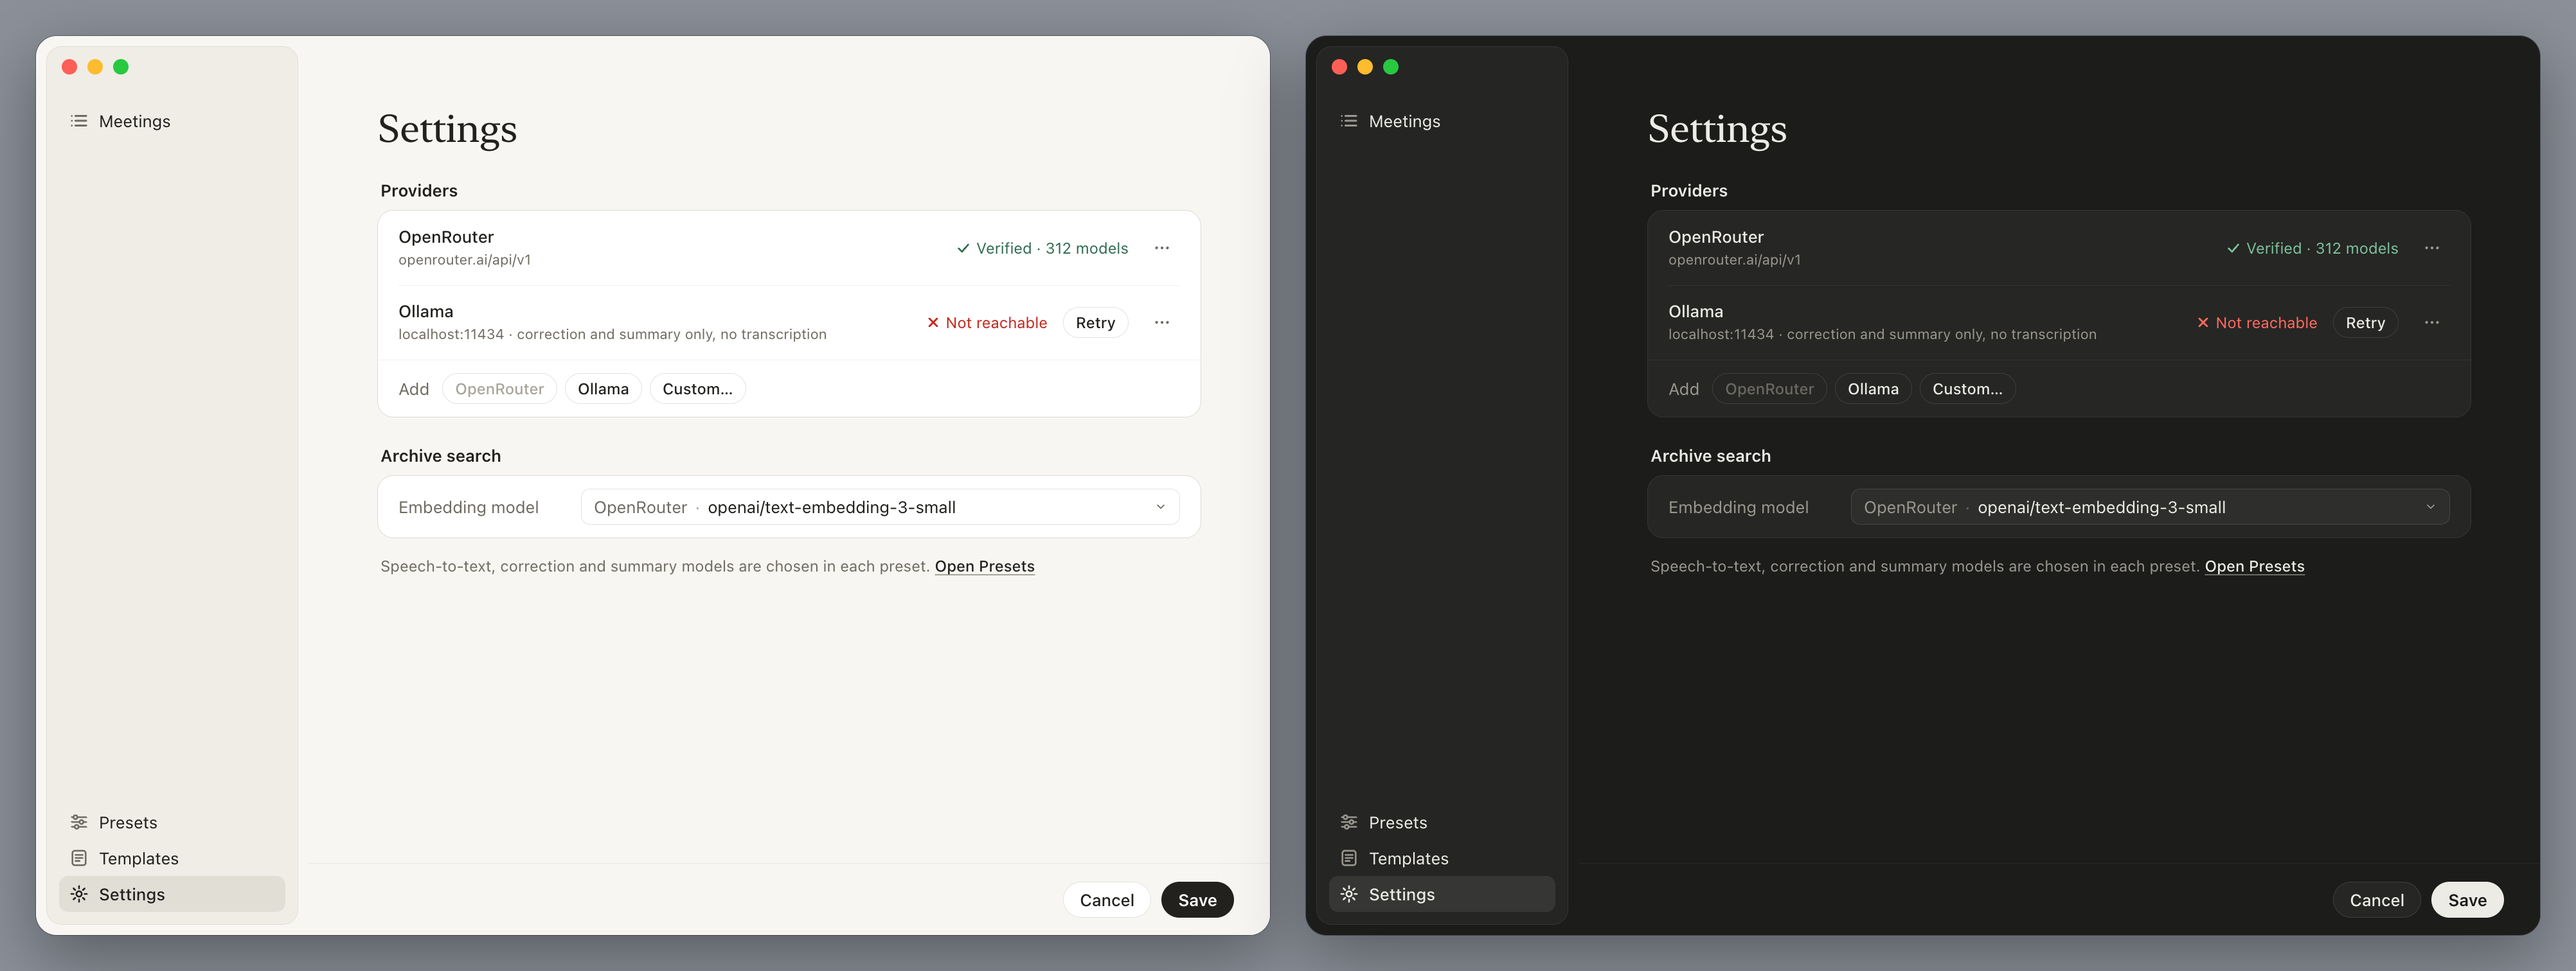
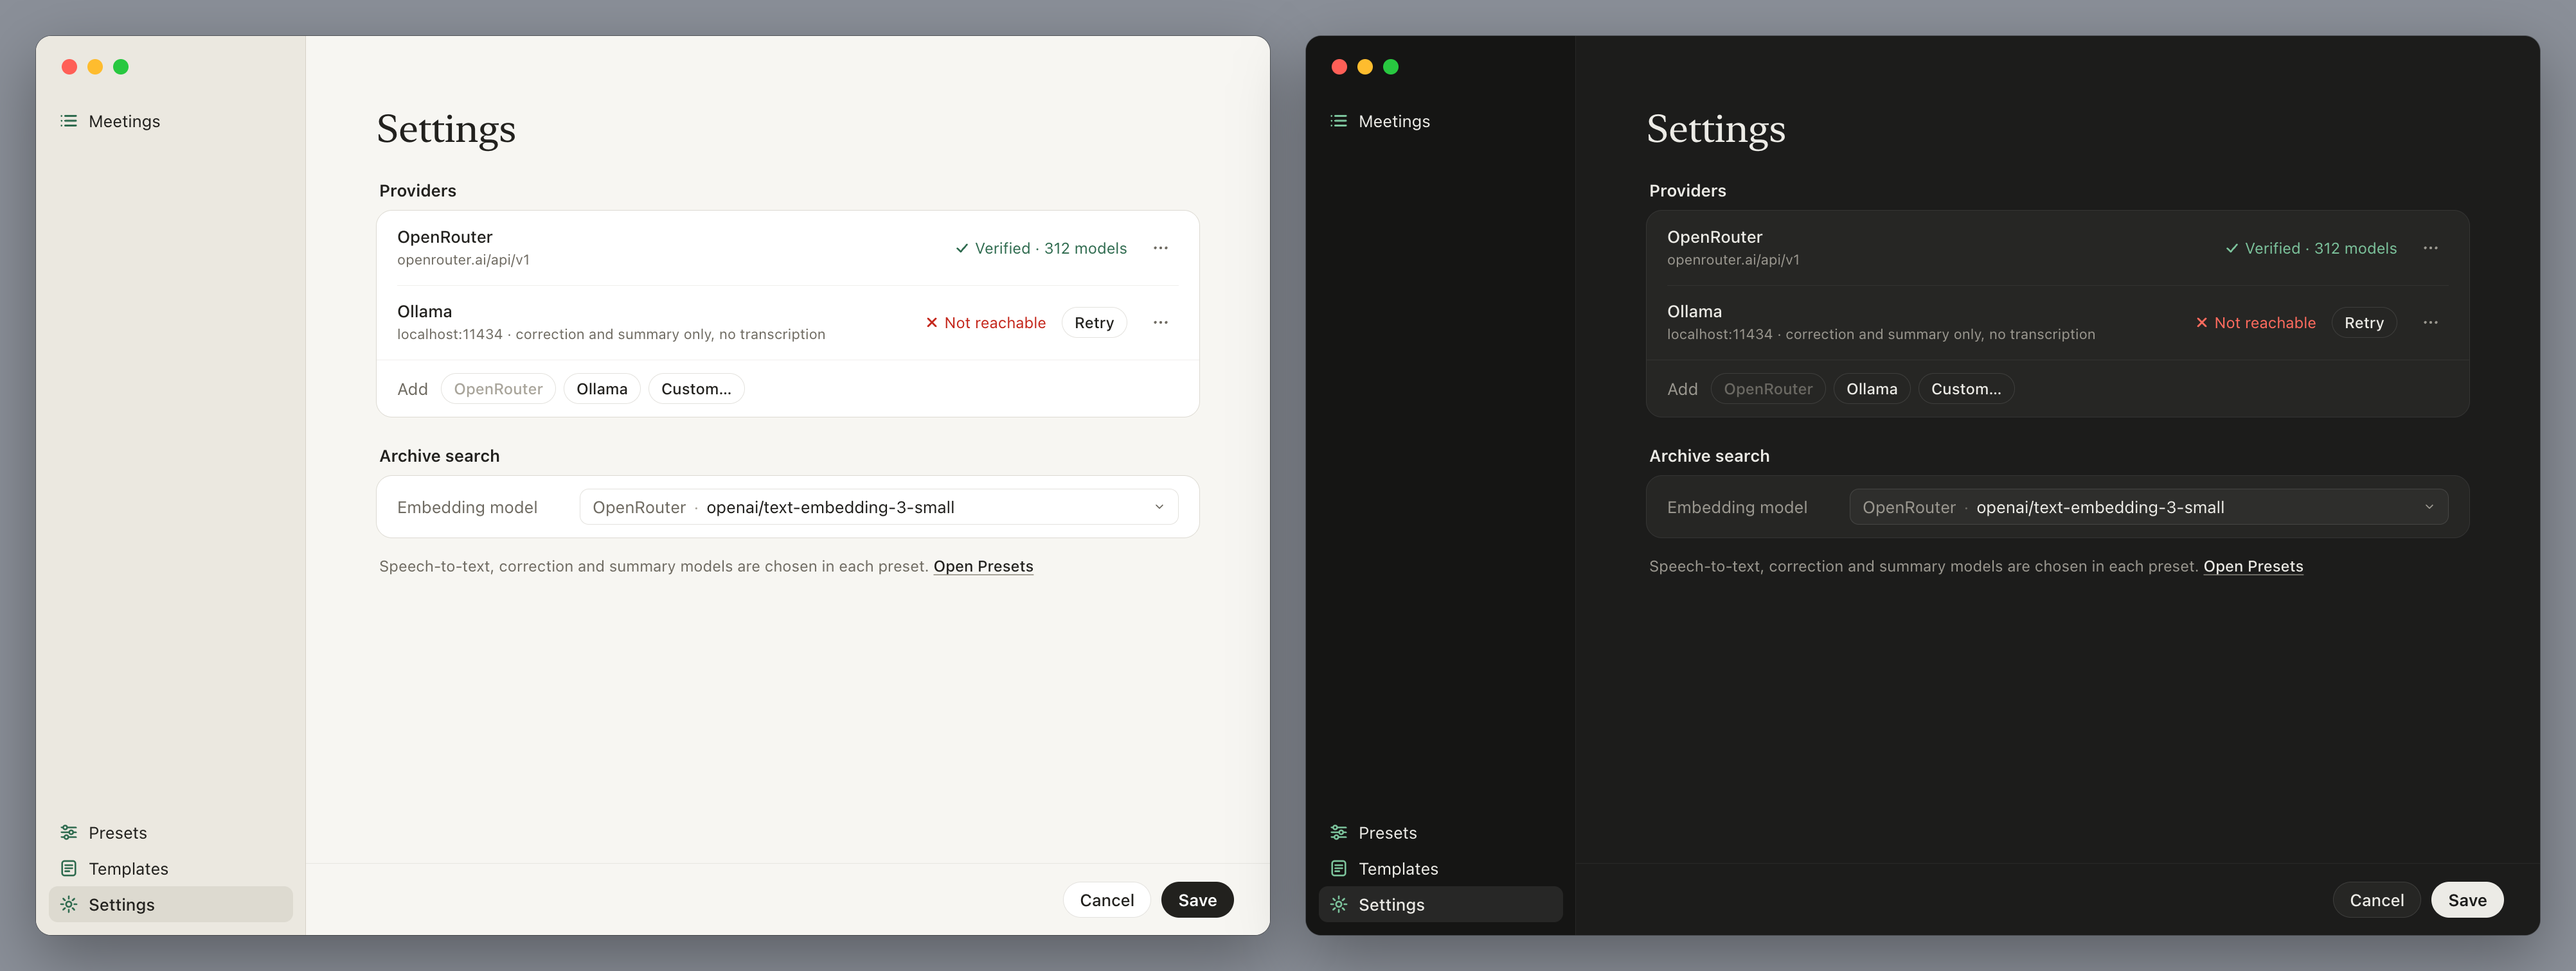
Design §11: makiety B na sidebarze macOS 27 (przy krawędzi), §11.8 research trendów UX macOS/Windows 2026–2027

diff --git a/docs/design/makiety/ekrany-b.html b/docs/design/makiety/ekrany-b.html
@@ -12,30 +12,30 @@
 body { font: 13px/16px system-ui; background: #8a8f98; padding: 28px; display: flex; gap: 28px; -webkit-font-smoothing: antialiased; }
 
 /* ---------- tokeny §11 ---------- */
-.light { --bg:#f7f6f2; --side:rgba(238,236,229,.92); --sideEdge:rgba(60,50,20,.08); --sel:rgba(60,50,20,.08);
+.light { --bg:#f7f6f2; --side:#ebe8e0; --sideEdge:rgba(60,50,20,.12); --sel:rgba(60,50,20,.08);
   --card:#ffffff; --sunk:#f1efe9; --line:rgba(60,50,20,.14); --line2:rgba(60,50,20,.08);
   --text:#22211e; --text2:#6f6b62; --text3:#a8a49a; --primary:#22211e; --onPrimary:#ffffff;
   --accent:#2f6b4f; --rec:#c4271c; --warn:#8a5a00; --glass:rgba(250,249,246,.74); --glassEdge:rgba(60,50,20,.16); }
-.dark { --bg:#1c1c1b; --side:rgba(38,38,36,.92); --sideEdge:rgba(255,255,255,.07); --sel:rgba(255,255,255,.08);
+.dark { --bg:#1c1c1b; --side:#151514; --sideEdge:rgba(255,255,255,.08); --sel:rgba(255,255,255,.08);
   --card:#262624; --sunk:#2e2e2c; --line:rgba(255,255,255,.11); --line2:rgba(255,255,255,.06);
   --text:#ecebe6; --text2:#9a978f; --text3:#6b6963; --primary:#ecebe6; --onPrimary:#1c1c1b;
   --accent:#7cc39c; --rec:#ff6b5e; --warn:#e0b050; --glass:rgba(36,36,34,.72); --glassEdge:rgba(255,255,255,.12); }
 
 /* ---------- okno i sidebar (systemowe) ---------- */
-.win { width: 960px; height: 700px; border-radius: 16px; overflow: hidden; position: relative; flex: none;
+.win { width: 960px; height: 700px; border-radius: 12px; overflow: hidden; position: relative; flex: none;
        background: var(--bg); color: var(--text); box-shadow: 0 0 0 .5px rgba(0,0,0,.35), 0 18px 50px rgba(0,0,0,.35); }
 .lights { position: absolute; top: 18px; left: 20px; display: flex; gap: 8px; z-index: 3; }
 .lights i { width: 12px; height: 12px; border-radius: 50%; display: block; }
 .lights i:nth-child(1){background:#ff5f57} .lights i:nth-child(2){background:#febc2e} .lights i:nth-child(3){background:#28c840}
-.side { position: absolute; top: 8px; left: 8px; bottom: 8px; width: 196px; border-radius: 12px; background: var(--side);
-        box-shadow: inset 0 0 0 .5px var(--sideEdge); padding: 44px 10px 10px; display: flex; flex-direction: column; }
+/* macOS 27: sidebar przy krawędzi okna, ciemniejsze tło, kolorowe ikony */
+.side { position: absolute; top: 0; left: 0; bottom: 0; width: 210px; background: var(--side);
+        box-shadow: inset -.5px 0 0 var(--sideEdge); padding: 52px 10px 10px; display: flex; flex-direction: column; }
 .nav { display: flex; align-items: center; gap: 8px; height: 28px; padding: 0 8px; border-radius: 7px; }
 .nav.sel { background: var(--sel); font-weight: 500; }
 .side .spacer { flex: 1; }
 svg { fill: none; stroke: currentColor; stroke-width: 1.4; stroke-linecap: round; stroke-linejoin: round; flex: none; }
-.nav svg { width: 15px; height: 15px; color: var(--text2); }
-.nav.sel svg { color: var(--text); }
-.main { position: absolute; top: 0; left: 212px; right: 0; bottom: 0; overflow: hidden; }
+.nav svg { width: 15px; height: 15px; color: var(--accent); }
+.main { position: absolute; top: 0; left: 210px; right: 0; bottom: 0; overflow: hidden; }
 .col { margin: 0 auto; padding-top: 54px; }
 
 /* ---------- typografia: szeryf tylko w tytułach stron i dokumentów ---------- */
@@ -72,7 +72,7 @@ svg { fill: none; stroke: currentColor; stroke-width: 1.4; stroke-linecap: round
 .form-row label { color: var(--text2); }
 .switch { width: 32px; height: 19px; border-radius: 999px; background: var(--accent); position: relative; flex: none; }
 .switch::after { content:""; position:absolute; top:2px; right:2px; width:15px; height:15px; border-radius:50%; background:#fff; box-shadow:0 1px 2px rgba(0,0,0,.25); }
-.footer { position: absolute; left: 212px; right: 0; bottom: 0; height: 56px; display: flex; align-items: center; justify-content: flex-end; gap: 8px;
+.footer { position: absolute; left: 210px; right: 0; bottom: 0; height: 56px; display: flex; align-items: center; justify-content: flex-end; gap: 8px;
           padding: 0 28px; border-top: .5px solid var(--line2); background: var(--bg); }
 .footer .note { margin-right: auto; color: var(--text2); display: flex; align-items: center; gap: 6px; }
 .icon-btn { width: 28px; height: 28px; border-radius: 999px; display: grid; place-items: center; color: var(--text2); }
@@ -201,7 +201,7 @@ const home = th => win(th,'m', `<div class="main"><div class="col" style="width:
 </div></div>`);
 
 /* ---------------- widok spotkania, Summary ---------------- */
-const meeting = th => win(th,'m', `<div class="toolbar" style="left:224px">
+const meeting = th => win(th,'m', `<div class="toolbar" style="left:222px">
     <div class="pill" style="width:30px;padding:0;justify-content:center">${I.back}</div><div class="sp"></div>
     <div class="icon-btn">${I.more}</div></div>
   <div class="main"><div class="col" style="width:640px">

diff --git a/docs/design/macos.md b/docs/design/macos.md
@@ -299,6 +299,8 @@ Każde nowe odstępstwo dopisuj tutaj, z uzasadnieniem opartym na pomiarze albo 
 > `craft-floor.md`). Makiety jasne i ciemne: `docs/design/makiety/ekrany-b.html`
 > (`?s=home|meeting|presets|settings|add|pill`), wyrenderowane do `b-*.png` w skali 2×,
 > gdzie 1 px = 1 pt. Kierunki odrzucone: `kierunek-a.png`, `kierunek-c.png`.
+> Makiety B pokazują okno z **macOS 27 „Golden Gate”** (sidebar przy krawędzi okna,
+> bardziej kwadratowe rogi). Makiety kierunków mają jeszcze pływający sidebar z macOS 26.
 
 **Zasada:** system wizualny daje aplikacji paletę, typografię, gęstość i jeden charakterystyczny
 ruch: ciepłe tło z białymi kartami i tytuły w New York. Nie zmienia nawigacji ani kontrolek.
@@ -338,8 +340,10 @@ występuje w UI, ale pomiar na nim jest najgorszym przypadkiem. Każdą nową pa
 dają natywne `TextField` i `.searchable`, a nie `text3`. `text3` ma tylko 2,3–3,1:1, więc nadaje się wyłącznie
 dla stanu nieaktywnego. Na makietach placeholdery są w `text3` tylko poglądowo.
 
-- Sidebar **nie dostaje** koloru `background`, tylko systemowy materiał. Na makiecie jest
-  ciepły, bo materiał przepuszcza tło okna.
+- Sidebar **nie dostaje** koloru `background`, tylko systemowy materiał. W macOS 27 sidebar
+  sięga krawędzi okna, ma tło ciemniejsze niż treść i kolorowe ikony. Na makiecie
+  (`#EBE8E0` / `#151514`, ikony w `accent`) to przybliżenie: ⚠ odcień i kolor ikon wybiera
+  system (`tint` aplikacji albo akcent użytkownika), sprawdzić w migawkach T0.
 - 📐 **Increase Contrast**: provider powinien zwracać ciemniejsze `text2` i `line` przy
   `.accessibilityHighContrastAqua`. Do sprawdzenia w migawkach T0.
 - Czerwień nagrywania i błędu różni się od akcentu (zieleń), więc nie ma kolizji znaczeń.
@@ -369,7 +373,8 @@ dla stanu nieaktywnego. Na makietach placeholdery są w `text3` tylko poglądowo
   i Settings 640 pt, Presets 700 pt (lista 196 + edytor). Górny margines 54 pt, bo pod
   paskiem tytułu.
 - **Promienie:** karta 12, pole tekstowe i popup 7, zaznaczenie w liście 8, panel
-  pigułki 20. Przyciski i pigułka nagrywania to pełna kapsuła.
+  pigułki 20. Przyciski i pigułka nagrywania to pełna kapsuła. Rogi okna rysuje system
+  (w macOS 27 jednakowe dla wszystkich aplikacji); karta 12 ma ich nie przekraczać.
 - **Głębia:** w treści tylko obwódka 0,5 pt (`line`), **bez cieni**. Cień i materiał ma tylko
   pływająca pigułka (Liquid Glass, §6.2). Zakaz łączenia obwódki z szerokim cieniem.
 - **Wiersze:** wiersz listy spotkań ma 9 pt w pionie i separator `line2`, wiersz formularza
@@ -442,6 +447,82 @@ Te elementy były w pierwszej wersji makiet i zostały usunięte:
 Migawki T0 (§9) przed i po, w obu motywach, porównane z `b-*.png`. Kontrast nowych par
 mierzony liczbowo, nie na oko. Pełna obsługa klawiaturą (Tab przez pigułki, fokus widoczny).
 Odbiór na żywo u użytkownika.
+
+### 11.8 Kontekst: trendy UX na macOS i Windows (research 2026-10-15)
+
+Po co: sprawdzić, czy kierunek B nie zestarzeje się zaraz po wdrożeniu. Źródła są na końcu.
+Pewność oznaczona: **mocne** (ogłoszenie producenta, recenzja wydanej wersji), **średnie**
+(relacja z drugiej ręki, analizy systemów designu), **słabe** (listy trendów agencji).
+
+**Teraz (2026)**
+
+- **macOS 27 „Golden Gate” (wydany 09.2026) koryguje Tahoe — mocne.**
+  - Liquid Glass ma bardziej jednolitą refrakcję i lepszy kontrast. W Ustawieniach → Wygląd
+    jest suwak przezroczystości („ultra-clear” → „fully tinted”).
+  - Sidebar wraca do krawędzi okna, z ciemniejszym tłem i kolorowymi ikonami.
+  - Paski narzędzi znów są paskami, a nie pływającymi przyciskami.
+  - Rogi okien są jednakowe we wszystkich aplikacjach.
+  - Z pozycji menu zniknęła większość ikon.
+  - Kierunek Apple: szkło zostaje, ale spokojniejsze i regulowane przez użytkownika.
+- **Liquid Glass jest na stałe — średnie.** Według relacji z rozmów w Apple Xcode 27 nie
+  będzie respektował flagi odraczającej szkło, a od I kw. 2027 ma być włączone wszędzie.
+  My budujemy na CLT, więc dostajemy wygląd tego SDK, którym kompilujemy.
+- **Windows trzyma się Fluent 2 i WinUI 3 — mocne.** Na Build 2026 Microsoft ogłosił, że
+  nie będzie nowego frameworka ani języka wizualnego. Starsze dialogi w powłoce są wymieniane na
+  WinUI (Mica, Acrylic, zaokrąglone rogi, tryb ciemny), a rozwój toczy się publicznie na
+  GitHubie. Tło: krytyka aplikacji na WebView2/Electron za zużycie pamięci.
+- **Natywne aplikacje Maca nadal przeważają — średnie.** W próbce 2440 aplikacji (III 2026)
+  70,8% jest natywnych, a 19,3% to Electron. Głośna jest krytyka Electronu za pamięć i baterię.
+- **Ciepły minimalizm w narzędziach do notatek — średnie.** Notion, Granola i Craft mają
+  kremowe lub ciepłe tło, szeryfowe tytuły i tekst w sansie, zamiast zimnych szarości. To dokładnie
+  kierunek B.
+- **Spokojniejsze interfejsy narzędzi — mocne (Linear).** Refresh Lineara z 2026 przygasza
+  sidebar, żeby wyróżnić treść, ogranicza ikony, zmiękcza separatory i ujednolica nagłówki,
+  zachowując gęstość informacji. To ta sama linia co test „slop” w §11.6.
+- **AI w miejscu pracy zamiast czatu z boku — słabe/średnie.** Wynik AI pojawia się tam, gdzie
+  się pracuje. Ważne są: widoczne źródło (który model, z czego powstało), kontrola człowieka,
+  wznowienie przy błędzie i jawne stany oczekiwania.
+
+**Za rok (2027) — niska pewność**
+
+- Apple dalej łagodzi szkło i oddaje kontrolę użytkownikowi. Szkło nie znika.
+- Windows wymienia kolejne dialogi na WinUI. Wielkie aplikacje webowe (Teams, Outlook) mogą
+  zostać przy WebView jeszcze długo.
+- O „generatywnym UI” i nawigacji rozmową piszą głównie agencje, twardych danych nie ma.
+- Ciepła typografia redakcyjna raczej zostanie, ale to opinia, nie pomiar.
+
+**Wnioski dla MeetNotes**
+
+1. Kierunek B jest zgodny z tym, co w 2026 robią najlepsze narzędzia do notatek. Test
+   „slop” idzie w tę samą stronę co Linear. Nic do zmiany w palecie ani typografii.
+2. **Sidebar, pasek narzędzi i rogi zostawiamy systemowi** (tak już mówi zasada §11), bo
+   zmieniają się co wersję macOS. Makiety B pokazują już macOS 27.
+3. **Pozycje menu bez ikon** (macOS 27). Dotyczy menu aplikacji i menu kontekstowych.
+4. **Szkło tylko w pigułce i tylko systemowe** (`.glassEffect()`), żeby suwak przezroczystości
+   użytkownika działał też u nas. Żadnego własnego rozmycia.
+5. Notatka już pokazuje źródło (model, szablon, kontekst w pasku generowania). Pomysł do fazy 2:
+   punkty notatki z odnośnikiem do miejsca w transkrypcie, czyli widoczne źródło.
+
+**Źródła**
+
+- MacRumors, „Apple Announces macOS 27 Golden Gate…”, 2026-06-08 —
+  https://www.macrumors.com/2026/06/08/apple-announces-macos-golden-gate/
+- Six Colors, „macOS 27 Golden Gate review”, 2026-09 —
+  https://sixcolors.com/post/2026/09/macos-27-golden-gate-review-bridging-the-tahoe-gap/
+- 9to5Mac, zmiany dla krytyków Tahoe, 2026-06-09 —
+  https://9to5mac.com/2026/06/09/macos-27-golden-gate-includes-these-changes-that-tahoe-critics-will-appreciate/
+- Michael Tsai, „Liquid Glass Is Permanent”, 2026-03-23 —
+  https://mjtsai.com/blog/2026/03/23/liquid-glass-is-permanent
+- Windows Latest, powrót natywnych aplikacji, 2026-08-29 —
+  https://www.windowslatest.com/2026/08/29/windows-11s-native-app-era-is-coming-back-after-years-of-web-app-slop-and-microsoft-is-finally-building-it-in-public/
+- Fluent 2, Windows — https://fluent2.microsoft.design/components/windows
+- Linear, „Behind the latest design refresh” — https://linear.app/now/behind-the-latest-design-refresh
+- Desktop Insights, „State of desktop app development 2026” —
+  https://desktopinsights.com/blog/state-of-desktop-app-development-2026
+- Analizy ciepłego minimalizmu (Notion, Craft): https://getdesign.md/notion/design-md,
+  https://www.webdesignhot.com/design.md/craft/
+- AI UX: https://www.lazarev.agency/articles/ai-ux-patterns,
+  https://aiindigo.com/blog/beyond-the-chatbot-5-ai-native-ux-patterns-for-modern-document-apps
 
 ---
 
